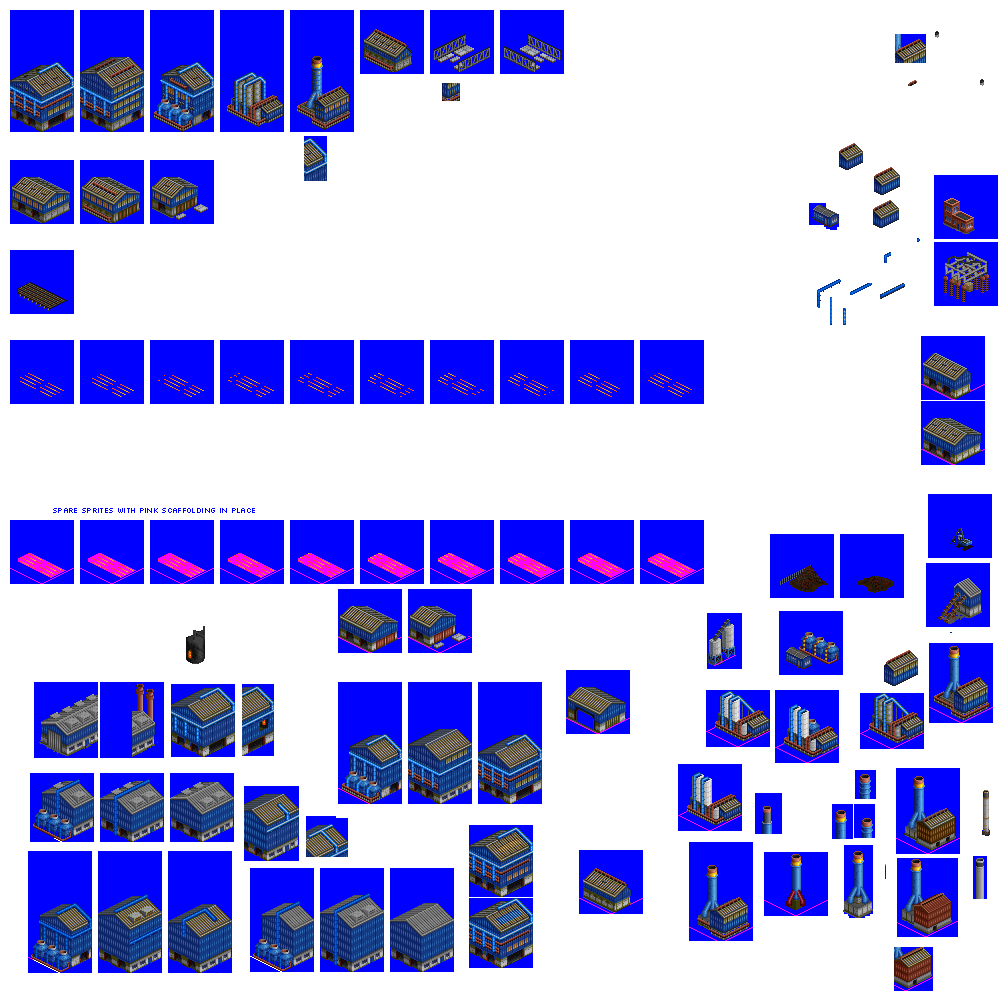
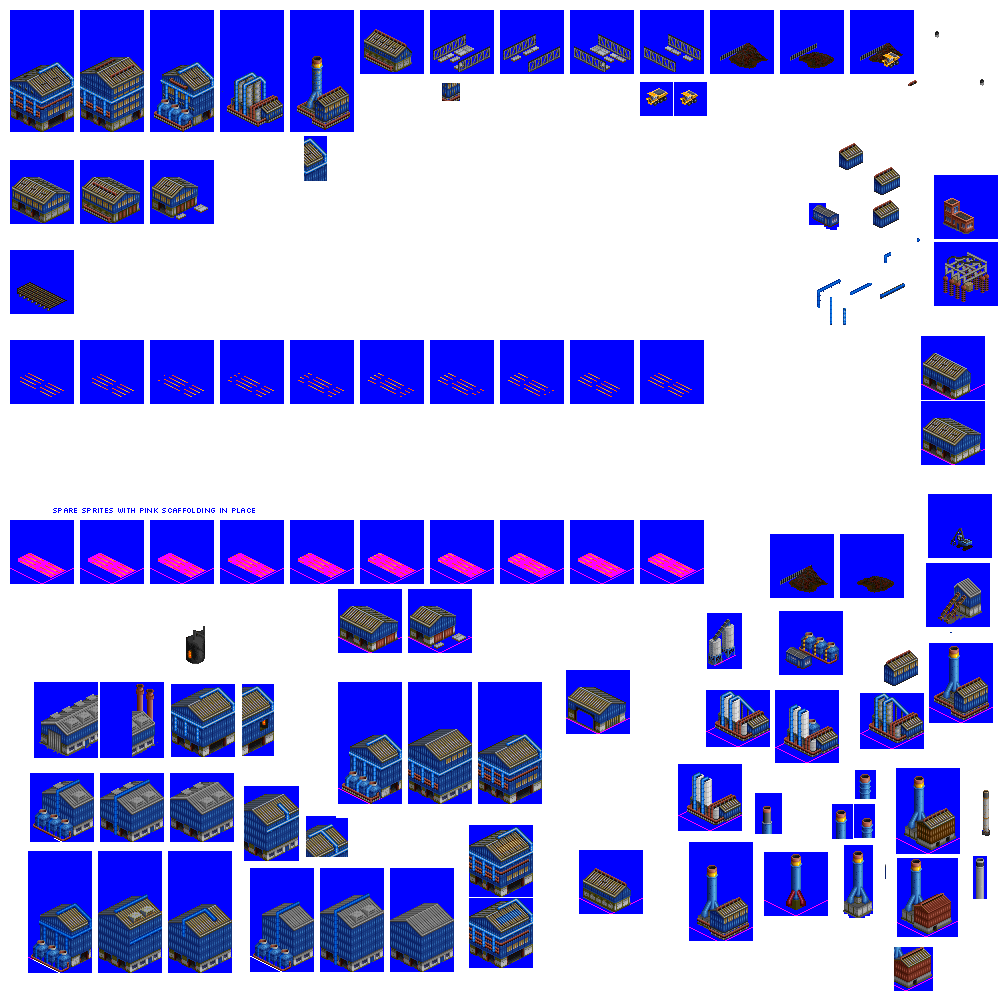
Change: add scrap stockpile objects to EAF

Changed region(s): [[0.496, 0.0, 0.93, 0.124]]

diff --git a/src/industries/electric_arc_furnace.py b/src/industries/electric_arc_furnace.py
@@ -84,6 +84,21 @@ spriteset_metal_1 = industry.add_spriteset(
 spriteset_metal_2 = industry.add_spriteset(
     sprites=[(500, 10, 64, 64, -31, -33)],
 )
+spriteset_metal_3 = industry.add_spriteset(
+    sprites=[(570, 10, 64, 64, -31, -33)],
+)
+spriteset_metal_4 = industry.add_spriteset(
+    sprites=[(640, 10, 64, 64, -31, -33)],
+)
+spriteset_scrap_1 = industry.add_spriteset(
+    sprites=[(710, 10, 64, 64, -31, -33)],
+)
+spriteset_scrap_2 = industry.add_spriteset(
+    sprites=[(780, 10, 64, 64, -31, -33)],
+)
+spriteset_scrap_3 = industry.add_spriteset(
+    sprites=[(850, 10, 64, 64, -31, -33)],
+)
 spriteset_casting_shed_1 = industry.add_spriteset(
     sprites=[(10, 160, 64, 64, -31, -33)],
 )
@@ -290,6 +305,24 @@ industry.add_spritelayout(
     add_to_object_num=11,
 )
 industry.add_spritelayout(
+    id="electric_arc_furnace_spritelayout_metal_3",
+    tile="electric_arc_furnace_tile_1",
+    ground_sprite=spriteset_ground,
+    ground_overlay=spriteset_ground_overlay,
+    building_sprites=[spriteset_metal_3],
+    fences=["nw", "ne", "se", "sw"],
+    add_to_object_num=12,
+)
+industry.add_spritelayout(
+    id="electric_arc_furnace_spritelayout_metal_4",
+    tile="electric_arc_furnace_tile_1",
+    ground_sprite=spriteset_ground,
+    ground_overlay=spriteset_ground_overlay,
+    building_sprites=[spriteset_metal_4],
+    fences=["nw", "ne", "se", "sw"],
+    add_to_object_num=13,
+)
+industry.add_spritelayout(
     id="electric_arc_furnace_spritelayout_extra_shed_1",
     tile="electric_arc_furnace_tile_1",
     ground_sprite=spriteset_ground,
@@ -298,6 +331,34 @@ industry.add_spritelayout(
     fences=["nw", "ne", "se", "sw"],
     add_to_object_num=7,
 )
+industry.add_spritelayout(
+    id="electric_arc_furnace_spritelayout_scrap_1",
+    tile="electric_arc_furnace_tile_1",
+    ground_sprite=spriteset_ground,
+    ground_overlay=spriteset_ground_overlay,
+    building_sprites=[spriteset_scrap_1],
+    fences=["nw", "ne", "se", "sw"],
+    add_to_object_num=14,
+)
+industry.add_spritelayout(
+    id="electric_arc_furnace_spritelayout_scrap_2",
+    tile="electric_arc_furnace_tile_1",
+    ground_sprite=spriteset_ground,
+    ground_overlay=spriteset_ground_overlay,
+    building_sprites=[spriteset_scrap_2],
+    fences=["nw", "ne", "se", "sw"],
+    add_to_object_num=15,
+)
+industry.add_spritelayout(
+    id="electric_arc_furnace_spritelayout_scrap_3",
+    tile="electric_arc_furnace_tile_1",
+    ground_sprite=spriteset_ground,
+    ground_overlay=spriteset_ground_overlay,
+    building_sprites=[spriteset_scrap_3],
+    fences=["nw", "ne", "se", "sw"],
+    add_to_object_num=16,
+)
+
 # this industry needs outpost layout as there are lots of cargos
 industry.add_industry_outpost_layout(
     id="electric_arc_furnace_industry_outpost_layout_1",
